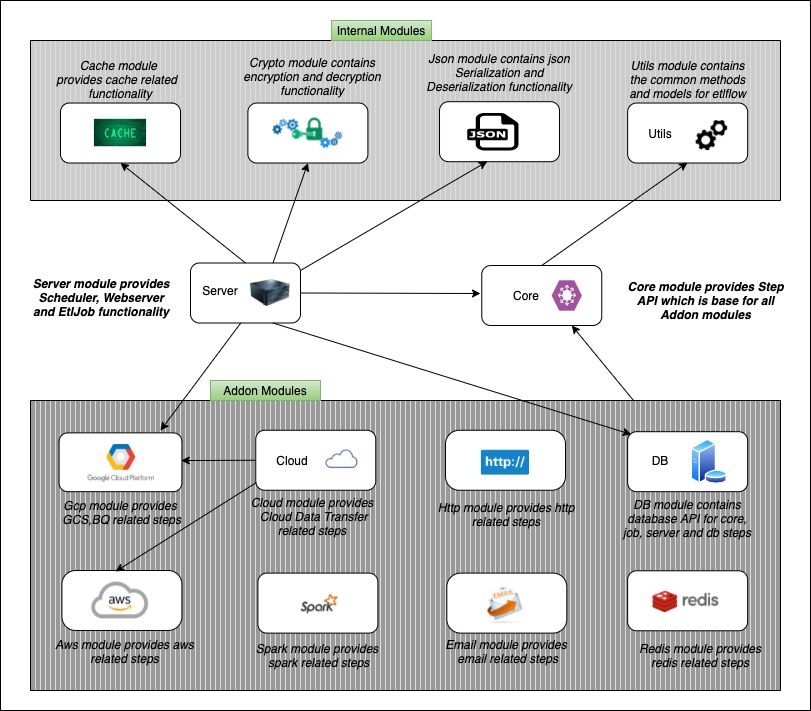
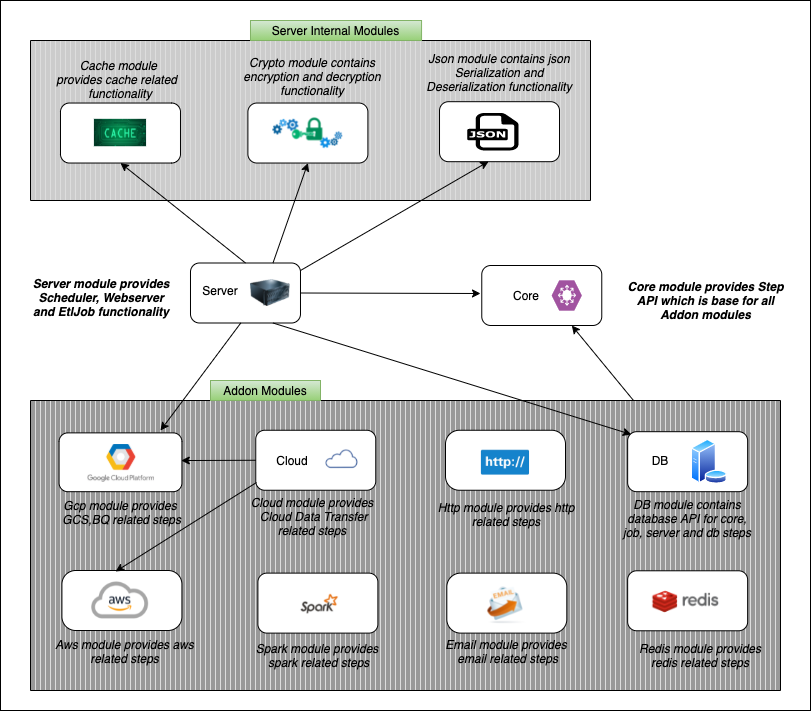
Updated json test cases, removed utils module.

diff --git a/README.md b/README.md
@@ -29,19 +29,18 @@ You can use this library in different ways mentioned below.
 ![ModuleDepGraph](moduleDep.png)
 
 ## Scala Version Compatibility Matrix
-### Internal Modules
-| Module Name        | Scala 2.12           | Scala 2.13  | Scala 3.0  | 
-| -------------------|:--------------------:| -----------:| ----------:|
-| Utils              | ✅                   | ✅          | ✅          |
-| Json               | ✅                   | ✅          | ✅          |
-| Cache              | ✅                   | ✅          | ✅          |
-| Crypto             | ✅                   | ✅          | ✅          |
-
 ### Main Modules
 | Module Name        | Scala 2.12           | Scala 2.13  | Scala 3.0  | 
 | -------------------|:--------------------:| -----------:| ----------:|
 | **Core**           | ✅                   | ✅          | ✅          |
 | **Server**         | ✅                   | ✅          | ✅          |
+
+### Server Internal Modules
+| Module Name        | Scala 2.12           | Scala 2.13  | Scala 3.0  | 
+| -------------------|:--------------------:| -----------:| ----------:|
+| Json               | ✅                   | ✅          | ✅          |
+| Cache              | ✅                   | ✅          | ✅          |
+| Crypto             | ✅                   | ✅          | ✅          |
 
 ### Addon Modules For Core
 | Module Name        | Scala 2.12           | Scala 2.13  | Scala 3.0  | 
